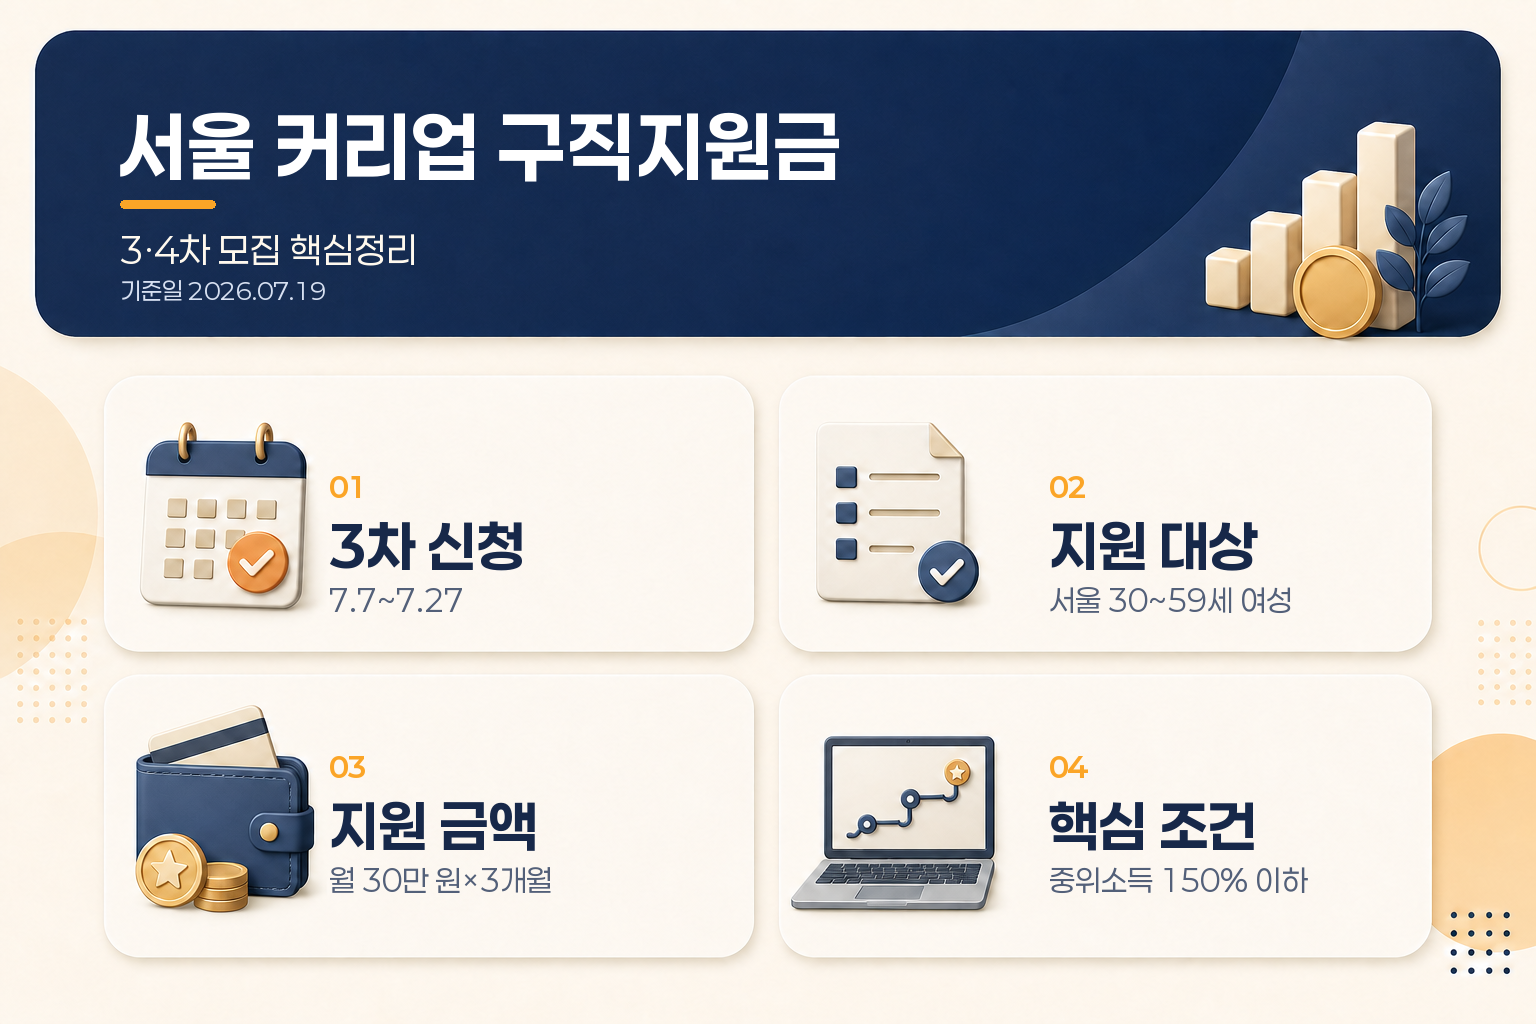
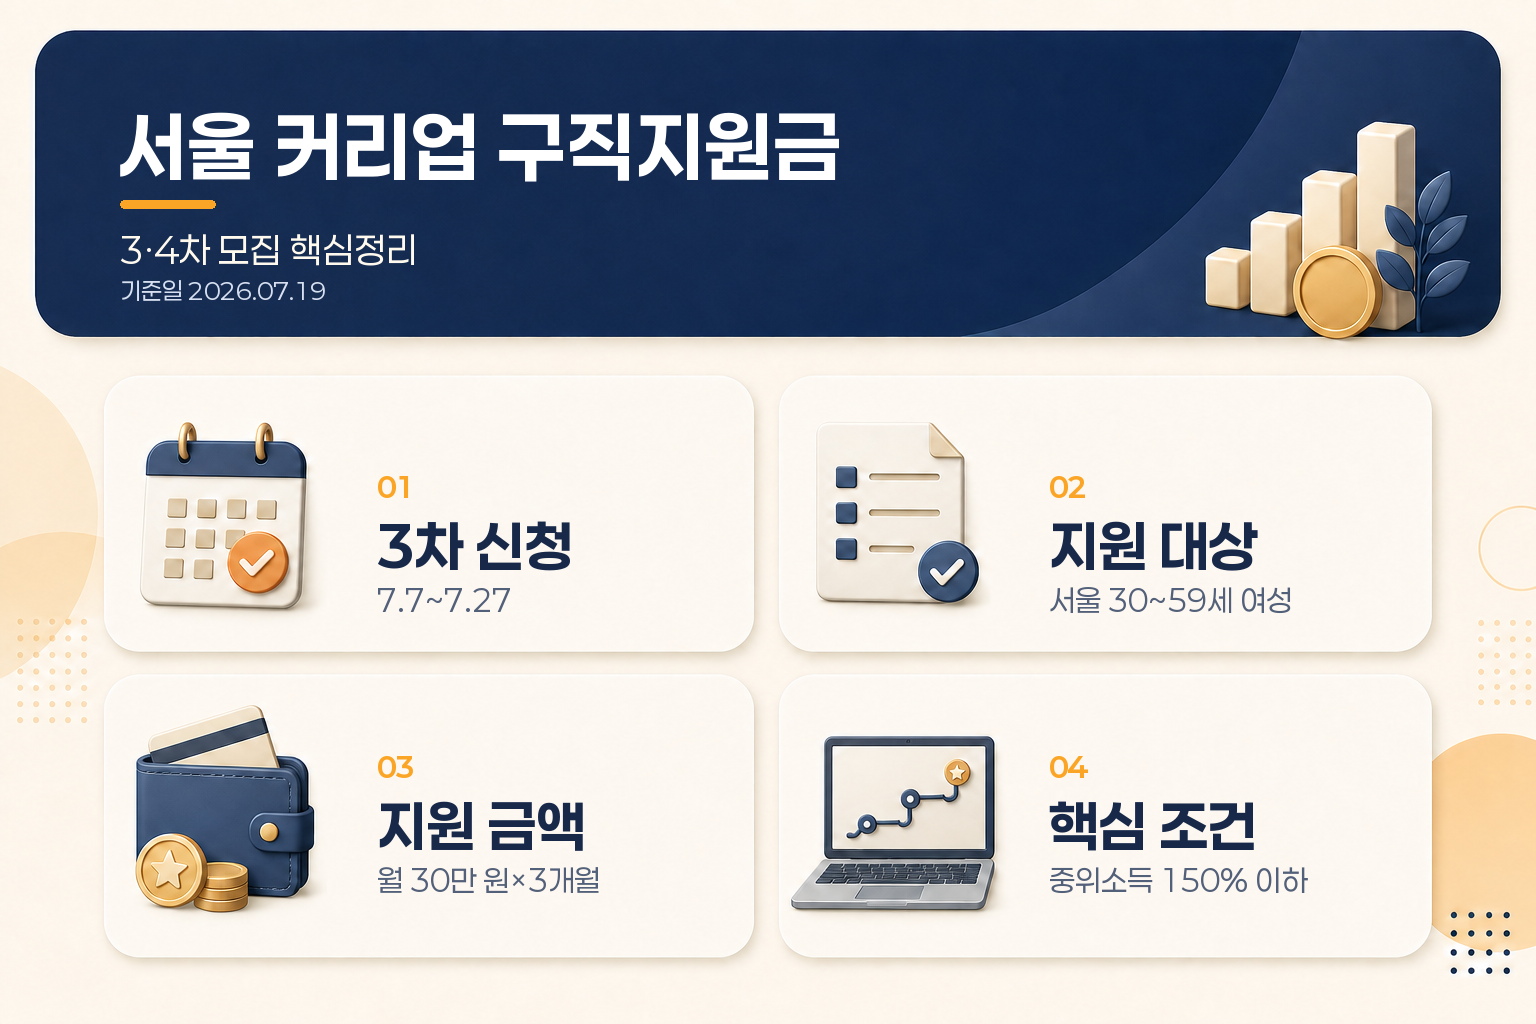
Update EV subsidy link and Career Up infographic

Changed region(s): [[0.2188, 0.7188, 0.4062, 0.875], [0.2188, 0.4688, 0.375, 0.5938]]

diff --git a/articles/youth-first-ev-subsidy-20260718.html b/articles/youth-first-ev-subsidy-20260718.html
@@ -89,6 +89,7 @@
 <p style="margin:12px 0;line-height:1.8;">전기차 보조금은 구매자가 정부 사이트에서 모든 절차를 직접 처리하는 방식이라기보다, 차량 계약과 함께 제조사·수입사 또는 판매점이 신청을 대행하는 흐름이 일반적입니다.</p>
 <br>
 <h3 style="font-size:18px;line-height:1.5;">기본 신청 흐름</h3>
+<p style="margin:12px 0;line-height:1.8;"><a href="https://www.ev.or.kr/nportal/buySupprt/initPsLocalCarPirceAction.do" target="_blank" rel="noopener noreferrer">공식 조회 링크: 무공해차 통합누리집 차종·지역별 보조금 조회</a></p>
 <ol style="margin:12px 0 12px 22px;padding:0;line-height:1.8;">
 <li style="margin:4px 0;">무공해차 통합누리집에서 보조금 대상 차종과 거주 지역 금액을 확인합니다.</li>
 <li style="margin:4px 0;">제조사·수입사 또는 판매점에서 차량 구매계약을 체결합니다.</li>
@@ -266,6 +267,8 @@
 
 기본 신청 흐름
 
+공식 조회 링크: 무공해차 통합누리집 차종·지역별 보조금 조회 (https://www.ev.or.kr/nportal/buySupprt/initPsLocalCarPirceAction.do)
+
 1. 무공해차 통합누리집에서 보조금 대상 차종과 거주 지역 금액을 확인합니다.
 2. 제조사·수입사 또는 판매점에서 차량 구매계약을 체결합니다.
 3. 구매지원 신청서와 증빙서류를 준비해 판매점에 제출합니다.
@@ -420,7 +423,7 @@
         if (target === 'copy-body-html') {
           const bodyClone = document.querySelector('#naver-body-html').cloneNode(true);
           bodyClone.querySelectorAll('img').forEach((img) => img.setAttribute('src', img.src));
-          await copyHtml(bodyClone.innerHTML, "청년 생애 최초 전기차 보조금, 20% 추가지원 조건·신청방법 총정리\n\n전기차를 첫 차로 구매하려는 청년이라면 2026년 보조금에서 국비 지원액의 20%를 추가로 받을 수 있는 조건을 확인할 수 있습니다.\n\n다만 이 20%는 차량 가격의 20%가 아닙니다. 해당 차종에 책정된 국비 보조금의 20%를 더하는 방식이며, 지방비는 거주 지역·차종·예산에 따라 별도로 달라집니다.\n\n이 글은 2026년 7월 18일 기준으로 만 19~34세 청년, 생애 첫 자동차, 차량 가격 기준, 지자체 신청 순서와 생애최초 증빙서류를 한 번에 정리한 안내입니다.\n\n먼저 핵심 조건부터 정리하면\n\n| 확인할 항목 | 2026년 기준 핵심 내용 |\n\n| 청년 연령 | 만 19세 이상 34세 이하 |\n| 구매 조건 | 전기차를 생애 첫 자동차로 구매 |\n| 청년 추가지원 | 해당 차량 국비 보조금의 20% |\n| 국비 상한 | 중·대형 승용 최대 580만 원, 소형 승용 최대 530만 원 범위에서 차등 |\n| 차량 가격 | 5,300만 원 미만 전액, 5,300만~8,500만 원 미만 50%, 8,500만 원 이상 미지원 |\n| 지방비 | 거주 지역·차종·예산·접수순서에 따라 별도 확인 |\n| 신청 방식 | 차량 계약 후 제조사·수입사 또는 판매점이 지자체에 대행 신청 가능 |\n\n핵심은 “청년이면 20%를 받는다”가 아니라 만 19~34세이면서, 전기차가 생애 첫 자동차인 경우 국비에 20%가 붙는다는 구조입니다.\n\n청년 생애 최초 전기차 보조금은 어떤 제도인가요?\n\n별도의 현금성 청년지원금을 따로 신청하는 방식이라기보다, 전기자동차 구매보조금 안에 있는 구매자 특성별 추가지원에 가깝습니다.\n\n청년 기준은 「청년기본법」에 따른 만 19세 이상 34세 이하입니다. 따라서 다른 청년정책에서 만 39세까지를 대상으로 하더라도, 이 중앙정부 전기차 추가지원 기준은 만 34세까지로 보는 것이 기본입니다.\n\n또 하나 중요한 표현은 “첫 전기차”가 아니라 생애 첫 자동차입니다. 과거에 자동차를 구매·등록한 이력이 있는지 확인하는 서류가 필요할 수 있으므로, 단순히 이전에 전기차를 산 적이 없다는 이유만으로 신청 가능하다고 판단하면 안 됩니다.\n\n현재 확인한 중앙정부 기준에는 청년 추가지원에 별도 소득요건이 제시되어 있지 않습니다. 다만 지자체는 거주기간, 접수기간, 우선순위, 제출서류 등 별도 조건을 공고할 수 있습니다.\n\n20% 추가지원금은 어떻게 계산하나요?\n\n계산식은 간단합니다.\n\n청년 추가지원금 = 해당 차종 국비 기본 보조금 × 20%\n\n예를 들어 차종별 국비 기본 보조금이 500만 원으로 책정되어 있다면 다음처럼 계산합니다.\n\n| 구분 | 금액 예시 |\n\n| 국비 기본 보조금 | 500만 원 |\n| 청년 생애최초 추가분 | 100만 원 |\n| 청년 조건 적용 후 국비 부분 | 600만 원 |\n| 지방비 | 거주 지자체와 차종별로 별도 계산 |\n\n이 예시는 계산 구조를 보여주기 위한 것입니다. 실제 국비 기본액은 차종의 연비·주행거리·배터리·가격인하 여부 등에 따라 달라지고, 국비 상한액을 그대로 받는다는 뜻도 아닙니다.\n\n중·대형 승용차의 국비 상한이 580만 원이라고 해도 모든 차종에 580만 원이 적용되는 것은 아닙니다. 해당 차량의 실제 국비 보조금이 580만 원으로 확정된 경우에만 단순 계산상 청년 추가분이 116만 원이 됩니다.\n\n차상위 이하 계층, 다자녀 등 다른 구매자 특성별 추가지원은 중복 가능하다고 안내되어 있습니다. 다만 정액 지원은 비율 추가지원 계산 후 마지막에 더하는 구조이므로, 개인별 조합은 차종과 지자체 공고를 함께 확인해야 합니다.\n\n차량 가격 기준도 함께 봐야 합니다\n\n승용 전기차는 차량 기본가격에 따라 보조금 지원 비율이 달라집니다.\n\n| 차량 기본가격 | 보조금 기준 |\n\n| 5,300만 원 미만 | 보조금 전액 기준 |\n| 5,300만 원 이상~8,500만 원 미만 | 보조금의 50% 기준 |\n| 8,500만 원 이상 | 보조금 미지원 |\n\n청년 추가지원은 기본 보조금이 산정된 뒤 적용되는 구조이므로, 차량 가격 기준에서 보조금이 줄거나 제외되면 청년 추가분도 함께 달라집니다.\n\n따라서 차량을 고를 때는 광고에 표시된 “청년 추가 20%”만 따로 보기보다 다음 순서로 확인하는 편이 안전합니다.\n\n1. 차량 기본가격이 어느 구간인지 확인합니다.\n2. 무공해차 통합누리집에서 해당 차종의 국비 보조금을 확인합니다.\n3. 거주 지자체의 차종별 지방비를 확인합니다.\n4. 국비 기본액에 20%를 적용해 청년 추가분을 계산합니다.\n5. 지역 예산과 접수 가능 여부를 확인한 뒤 계약 일정을 잡습니다.\n\n국비와 지방비는 어떻게 나뉘나요?\n\n전기차 보조금은 국비와 지방비가 합쳐져 차량 구매 과정에 반영되지만, 두 금액의 기준은 다릅니다.\n\n| 구분 | 확인 기준 |\n\n| 국비 | 차종별 성능·가격·제조사 평가 등을 반영한 전국 기준 |\n| 지방비 | 구매자의 거주 지역, 차종별 배분, 지자체 예산과 접수 조건 |\n| 청년 추가분 | 해당 차량 국비 보조금의 20% |\n| 접수 상태 | 공고 물량, 잔여 예산, 출고·등록 시점, 지자체 선정 방식 |\n\n지자체는 차종별 국비 산정 수준에 비례해 지방비를 차등 산정합니다. 하지만 같은 차량이라도 어느 지역에서 구매하느냐에 따라 전체 보조금이 달라질 수 있습니다.\n\n2026년 지침상 지자체는 보급 물량을 나누어 최소 2회 이상 공고할 수 있고, 개인 구매자에게 일정 기간의 거주요건을 둘 수 있습니다. 거주기간 요건은 지침상 3개월 이내로 설정하도록 안내되어 있지만, 실제 신청 가능 여부는 해당 지역 공고문을 기준으로 봐야 합니다.\n\n신청은 보통 어떤 순서로 진행되나요?\n\n전기차 보조금은 구매자가 정부 사이트에서 모든 절차를 직접 처리하는 방식이라기보다, 차량 계약과 함께 제조사·수입사 또는 판매점이 신청을 대행하는 흐름이 일반적입니다.\n\n기본 신청 흐름\n\n1. 무공해차 통합누리집에서 보조금 대상 차종과 거주 지역 금액을 확인합니다.\n2. 제조사·수입사 또는 판매점에서 차량 구매계약을 체결합니다.\n3. 구매지원 신청서와 증빙서류를 준비해 판매점에 제출합니다.\n4. 제조사·수입사 또는 판매점이 관할 지자체에 구매지원 신청을 대행합니다.\n5. 지자체가 자격과 예산을 검토해 지원 대상자를 선정합니다.\n6. 대상자 확정 후 차량을 출고·등록합니다.\n7. 등록 후 정해진 기간 안에 집행 증빙을 제출합니다.\n\n지자체의 대상자 선정 방식은 출고·등록순, 추첨, 구매지원 신청서 접수순 중에서 지역별로 달라질 수 있습니다. 보조금 대상자로 선정되더라도 차량 출고가 늦어지면 선정이 취소되거나 대기자로 바뀔 수 있으므로, 계약 전 출고 예정일도 함께 확인해야 합니다.\n\n2026년 7월 이후에는 전기차 화재안심보험 가입요건이 적용되는 차량만 보조금 대상이 되는 제도 변경도 안내되어 있습니다. 차량별 적용 여부는 제조사 설명과 무공해차 통합누리집의 대상 차종 정보를 함께 확인하는 것이 좋습니다.\n\n생애최초 증빙서류는 무엇을 준비하나요?\n\n공통서류와 추가지원 증빙서류를 나누어 생각하면 편합니다.\n\n| 구분 | 준비 가능성이 높은 서류 | 확인 포인트 |\n\n| 공통 | 전기자동차 구매지원신청서, 차량구매계약서 | 판매점이 양식을 안내하는 경우가 많음 |\n| 거주 확인 | 주민등록초본 | 이전 주소 변동사항과 지자체 거주기간 확인 |\n| 생애최초 | 지방세 세목별 미과세증명서 | 차량 취득세·자동차세·등록세 관련 항목과 발급 범위 확인 |\n| 추가 대상 | 차상위·기초생활수급자 증명서, 가족관계증명서 등 | 해당되는 경우에만 지자체 공고에 따라 제출 |\n\n서울시 FAQ는 생애 최초 차량 구매자 추가보조금 신청에 출생연도부터 현재까지의 지방세 세목별 미과세증명서와 주민등록초본을 안내하고 있습니다. 다만 이 서류 구성이 전국 모든 지자체에서 동일하다고 단정하면 안 됩니다.\n\n특히 지방세 미과세증명서는 발급 지역과 기간을 잘못 선택하면 자동차 보유 이력 확인이 충분하지 않을 수 있습니다. 발급 전 해당 지자체 공고 또는 판매점이 안내하는 세목·기간·전국 단위 발급 여부를 확인하세요.\n\n보조금 신청 타이밍에서 놓치기 쉬운 부분\n\n보조금은 계약했다고 바로 확정되는 금액이 아닙니다. 다음 세 가지 시점을 구분해야 합니다.\n\n| 시점 | 의미 |\n\n| 계약일 | 차량 구매계약을 체결한 날 |\n| 지원 대상자 선정일 | 지자체가 보조금 대상자로 확정한 날 |\n| 출고·등록일 | 실제 차량을 출고하고 등록한 날 |\n\n지자체별로 접수순이나 출고·등록순을 적용할 수 있고, 예산이 소진되면 접수가 마감될 수 있습니다. 또 보조금 대상자 선정 후에도 일정 기간 안에 차량이 출고되지 않으면 대상자 선정이 취소될 수 있습니다.\n\n그러므로 “차량을 먼저 계약하면 보조금을 확보할 수 있다”거나 “20% 추가분은 누구나 나중에 신청하면 된다”고 단정하기 어렵습니다. 계약 전에는 반드시 대상 차종, 지역 예산, 접수 상태, 선정 방식, 출고 예정일을 함께 확인해야 합니다.\n\n의무운행기간과 보조금 환수도 확인하세요\n\n전기차 보조금을 받은 뒤 짧은 기간 안에 매도하거나 등록을 말소하면 보조금 일부가 회수될 수 있습니다.\n\n찾기쉬운 생활법령정보는 최초 등록일부터 법정 의무운행기간이 지나지 않은 상태에서 등록말소를 신청하면 사용기간별 회수기준에 따라 보조금을 회수한다고 안내합니다. 승용차를 2년 이내 판매하는 경우 별도 승인 절차를 두는 지자체도 있습니다.\n\n사고나 천재지변처럼 불가피한 말소는 예외 기준이 적용될 수 있지만, 일반적인 조기 매도·폐차와는 구분해야 합니다. 차량을 오래 보유할 계획인지, 중고 판매나 이전 가능성이 있는지에 따라 확인해야 할 조건이 달라질 수 있습니다.\n\n자주 묻는 질문\n\n만 35세부터 39세인 청년도 청년 추가지원 대상인가요?\n\n2026년 중앙정부 전기차 구매보조금의 청년 추가지원 기준은 만 19세 이상 34세 이하입니다. 다른 청년정책의 연령 기준과 혼동하지 않는 것이 좋습니다.\n\n차량 가격의 20%를 지원하나요?\n\n아닙니다. 차량 가격이 아니라 해당 차종에 책정된 국비 보조금의 20%입니다.\n\n국비 20%에 지방비도 같이 20% 붙나요?\n\n청년 추가분은 국비 지원액을 기준으로 계산됩니다. 지방비는 거주 지역과 차종별 공고에 따라 별도로 산정되므로, 전체 보조금에 단순히 20%를 곱하면 안 됩니다.\n\n이전에 오토바이나 가족 차량을 보유한 경우는 어떻게 되나요?\n\n생애최초 인정 범위와 확인 방식은 자동차 종류·등록 이력·지자체 공고에 따라 확인해야 합니다. “내 명의의 승용차가 없었다”는 사실만으로 모든 경우를 동일하게 판단하지 말고, 과거 등록 이력을 확인할 서류와 지역 기준을 판매점·지자체에 확인하는 것이 안전합니다.\n\n보조금 신청은 구매자가 직접 하나요?\n\n구매자가 계약서와 증빙서류를 준비하고, 제조사·수입사 또는 판매점이 지자체 신청을 대행할 수 있습니다. 다만 제출서류와 최종 책임 기준은 지자체 공고에 따라 달라질 수 있습니다.\n\n전기차를 산 뒤 바로 팔아도 되나요?\n\n의무운행기간 안에 판매·폐차·등록말소를 하면 보조금 환수나 승인 절차가 발생할 수 있습니다. 최초 등록일과 사용기간별 회수기준을 확인해야 합니다.\n\n신청 전 체크리스트\n\n- 만 19세 이상 34세 이하인지 확인했습니다.\n- 구매하려는 전기차가 생애 첫 자동차에 해당하는지 확인했습니다.\n- 차량 기본가격이 보조금 가격 구간에 들어오는지 확인했습니다.\n- 무공해차 통합누리집에서 차종별 국비 보조금을 확인했습니다.\n- 거주 지자체의 지방비와 잔여 예산을 확인했습니다.\n- 지자체의 거주기간과 접수·선정 방식을 확인했습니다.\n- 지방세 세목별 미과세증명서와 주민등록초본 등 생애최초 증빙을 확인했습니다.\n- 차량 출고 예정일이 대상자 선정 후 기한 안에 들어오는지 확인했습니다.\n- 2026년 7월 이후 화재안심보험 요건에 해당하는 차량인지 확인했습니다.\n- 조기 매도·폐차 시 보조금 환수 기준을 확인했습니다.\n\n마무리 정리\n\n청년 생애 최초 전기차 보조금의 핵심은 만 19~34세 청년이 생애 첫 자동차로 전기차를 구매하면 해당 차종 국비 보조금의 20%를 추가로 받을 수 있다는 점입니다.\n\n하지만 실제 구매 금액은 청년 추가분 하나만으로 결정되지 않습니다. 차량 가격 구간, 차종별 국비, 거주 지역의 지방비, 잔여 예산, 생애최초 증빙, 출고일과 의무운행기간을 함께 확인해야 합니다.\n\n따라서 계약 전에는 무공해차 통합누리집에서 차종·지역별 금액을 조회하고, 판매점에는 청년 생애최초 추가지원과 지방세 증빙서류를 별도로 확인하는 순서가 적절합니다.\n\n자료 기준일: 2026년 7월 18일  \n주요 출처: 기후에너지환경부 2026년 보조금 지침·카드뉴스, 찾기쉬운 생활법령정보, 무공해차 통합누리집, 서울특별시 전기차 보조금 FAQ  \n안내: 이 글은 2026년 7월 18일 기준 공개된 정부·지자체 안내를 바탕으로 정리한 일반 정보입니다. 차량별 보조금, 지자체 예산, 거주기간, 제출서류와 접수 방식은 신청 시점의 공고에 따라 달라질 수 있으므로 계약 전 무공해차 통합누리집과 관할 지자체 공고를 다시 확인하세요.");
+          await copyHtml(bodyClone.innerHTML, "청년 생애 최초 전기차 보조금, 20% 추가지원 조건·신청방법 총정리\n\n전기차를 첫 차로 구매하려는 청년이라면 2026년 보조금에서 국비 지원액의 20%를 추가로 받을 수 있는 조건을 확인할 수 있습니다.\n\n다만 이 20%는 차량 가격의 20%가 아닙니다. 해당 차종에 책정된 국비 보조금의 20%를 더하는 방식이며, 지방비는 거주 지역·차종·예산에 따라 별도로 달라집니다.\n\n이 글은 2026년 7월 18일 기준으로 만 19~34세 청년, 생애 첫 자동차, 차량 가격 기준, 지자체 신청 순서와 생애최초 증빙서류를 한 번에 정리한 안내입니다.\n\n먼저 핵심 조건부터 정리하면\n\n| 확인할 항목 | 2026년 기준 핵심 내용 |\n\n| 청년 연령 | 만 19세 이상 34세 이하 |\n| 구매 조건 | 전기차를 생애 첫 자동차로 구매 |\n| 청년 추가지원 | 해당 차량 국비 보조금의 20% |\n| 국비 상한 | 중·대형 승용 최대 580만 원, 소형 승용 최대 530만 원 범위에서 차등 |\n| 차량 가격 | 5,300만 원 미만 전액, 5,300만~8,500만 원 미만 50%, 8,500만 원 이상 미지원 |\n| 지방비 | 거주 지역·차종·예산·접수순서에 따라 별도 확인 |\n| 신청 방식 | 차량 계약 후 제조사·수입사 또는 판매점이 지자체에 대행 신청 가능 |\n\n핵심은 “청년이면 20%를 받는다”가 아니라 만 19~34세이면서, 전기차가 생애 첫 자동차인 경우 국비에 20%가 붙는다는 구조입니다.\n\n청년 생애 최초 전기차 보조금은 어떤 제도인가요?\n\n별도의 현금성 청년지원금을 따로 신청하는 방식이라기보다, 전기자동차 구매보조금 안에 있는 구매자 특성별 추가지원에 가깝습니다.\n\n청년 기준은 「청년기본법」에 따른 만 19세 이상 34세 이하입니다. 따라서 다른 청년정책에서 만 39세까지를 대상으로 하더라도, 이 중앙정부 전기차 추가지원 기준은 만 34세까지로 보는 것이 기본입니다.\n\n또 하나 중요한 표현은 “첫 전기차”가 아니라 생애 첫 자동차입니다. 과거에 자동차를 구매·등록한 이력이 있는지 확인하는 서류가 필요할 수 있으므로, 단순히 이전에 전기차를 산 적이 없다는 이유만으로 신청 가능하다고 판단하면 안 됩니다.\n\n현재 확인한 중앙정부 기준에는 청년 추가지원에 별도 소득요건이 제시되어 있지 않습니다. 다만 지자체는 거주기간, 접수기간, 우선순위, 제출서류 등 별도 조건을 공고할 수 있습니다.\n\n20% 추가지원금은 어떻게 계산하나요?\n\n계산식은 간단합니다.\n\n청년 추가지원금 = 해당 차종 국비 기본 보조금 × 20%\n\n예를 들어 차종별 국비 기본 보조금이 500만 원으로 책정되어 있다면 다음처럼 계산합니다.\n\n| 구분 | 금액 예시 |\n\n| 국비 기본 보조금 | 500만 원 |\n| 청년 생애최초 추가분 | 100만 원 |\n| 청년 조건 적용 후 국비 부분 | 600만 원 |\n| 지방비 | 거주 지자체와 차종별로 별도 계산 |\n\n이 예시는 계산 구조를 보여주기 위한 것입니다. 실제 국비 기본액은 차종의 연비·주행거리·배터리·가격인하 여부 등에 따라 달라지고, 국비 상한액을 그대로 받는다는 뜻도 아닙니다.\n\n중·대형 승용차의 국비 상한이 580만 원이라고 해도 모든 차종에 580만 원이 적용되는 것은 아닙니다. 해당 차량의 실제 국비 보조금이 580만 원으로 확정된 경우에만 단순 계산상 청년 추가분이 116만 원이 됩니다.\n\n차상위 이하 계층, 다자녀 등 다른 구매자 특성별 추가지원은 중복 가능하다고 안내되어 있습니다. 다만 정액 지원은 비율 추가지원 계산 후 마지막에 더하는 구조이므로, 개인별 조합은 차종과 지자체 공고를 함께 확인해야 합니다.\n\n차량 가격 기준도 함께 봐야 합니다\n\n승용 전기차는 차량 기본가격에 따라 보조금 지원 비율이 달라집니다.\n\n| 차량 기본가격 | 보조금 기준 |\n\n| 5,300만 원 미만 | 보조금 전액 기준 |\n| 5,300만 원 이상~8,500만 원 미만 | 보조금의 50% 기준 |\n| 8,500만 원 이상 | 보조금 미지원 |\n\n청년 추가지원은 기본 보조금이 산정된 뒤 적용되는 구조이므로, 차량 가격 기준에서 보조금이 줄거나 제외되면 청년 추가분도 함께 달라집니다.\n\n따라서 차량을 고를 때는 광고에 표시된 “청년 추가 20%”만 따로 보기보다 다음 순서로 확인하는 편이 안전합니다.\n\n1. 차량 기본가격이 어느 구간인지 확인합니다.\n2. 무공해차 통합누리집에서 해당 차종의 국비 보조금을 확인합니다.\n3. 거주 지자체의 차종별 지방비를 확인합니다.\n4. 국비 기본액에 20%를 적용해 청년 추가분을 계산합니다.\n5. 지역 예산과 접수 가능 여부를 확인한 뒤 계약 일정을 잡습니다.\n\n국비와 지방비는 어떻게 나뉘나요?\n\n전기차 보조금은 국비와 지방비가 합쳐져 차량 구매 과정에 반영되지만, 두 금액의 기준은 다릅니다.\n\n| 구분 | 확인 기준 |\n\n| 국비 | 차종별 성능·가격·제조사 평가 등을 반영한 전국 기준 |\n| 지방비 | 구매자의 거주 지역, 차종별 배분, 지자체 예산과 접수 조건 |\n| 청년 추가분 | 해당 차량 국비 보조금의 20% |\n| 접수 상태 | 공고 물량, 잔여 예산, 출고·등록 시점, 지자체 선정 방식 |\n\n지자체는 차종별 국비 산정 수준에 비례해 지방비를 차등 산정합니다. 하지만 같은 차량이라도 어느 지역에서 구매하느냐에 따라 전체 보조금이 달라질 수 있습니다.\n\n2026년 지침상 지자체는 보급 물량을 나누어 최소 2회 이상 공고할 수 있고, 개인 구매자에게 일정 기간의 거주요건을 둘 수 있습니다. 거주기간 요건은 지침상 3개월 이내로 설정하도록 안내되어 있지만, 실제 신청 가능 여부는 해당 지역 공고문을 기준으로 봐야 합니다.\n\n신청은 보통 어떤 순서로 진행되나요?\n\n전기차 보조금은 구매자가 정부 사이트에서 모든 절차를 직접 처리하는 방식이라기보다, 차량 계약과 함께 제조사·수입사 또는 판매점이 신청을 대행하는 흐름이 일반적입니다.\n\n기본 신청 흐름\n\n공식 조회 링크: 무공해차 통합누리집 차종·지역별 보조금 조회 (https://www.ev.or.kr/nportal/buySupprt/initPsLocalCarPirceAction.do)\n\n1. 무공해차 통합누리집에서 보조금 대상 차종과 거주 지역 금액을 확인합니다.\n2. 제조사·수입사 또는 판매점에서 차량 구매계약을 체결합니다.\n3. 구매지원 신청서와 증빙서류를 준비해 판매점에 제출합니다.\n4. 제조사·수입사 또는 판매점이 관할 지자체에 구매지원 신청을 대행합니다.\n5. 지자체가 자격과 예산을 검토해 지원 대상자를 선정합니다.\n6. 대상자 확정 후 차량을 출고·등록합니다.\n7. 등록 후 정해진 기간 안에 집행 증빙을 제출합니다.\n\n지자체의 대상자 선정 방식은 출고·등록순, 추첨, 구매지원 신청서 접수순 중에서 지역별로 달라질 수 있습니다. 보조금 대상자로 선정되더라도 차량 출고가 늦어지면 선정이 취소되거나 대기자로 바뀔 수 있으므로, 계약 전 출고 예정일도 함께 확인해야 합니다.\n\n2026년 7월 이후에는 전기차 화재안심보험 가입요건이 적용되는 차량만 보조금 대상이 되는 제도 변경도 안내되어 있습니다. 차량별 적용 여부는 제조사 설명과 무공해차 통합누리집의 대상 차종 정보를 함께 확인하는 것이 좋습니다.\n\n생애최초 증빙서류는 무엇을 준비하나요?\n\n공통서류와 추가지원 증빙서류를 나누어 생각하면 편합니다.\n\n| 구분 | 준비 가능성이 높은 서류 | 확인 포인트 |\n\n| 공통 | 전기자동차 구매지원신청서, 차량구매계약서 | 판매점이 양식을 안내하는 경우가 많음 |\n| 거주 확인 | 주민등록초본 | 이전 주소 변동사항과 지자체 거주기간 확인 |\n| 생애최초 | 지방세 세목별 미과세증명서 | 차량 취득세·자동차세·등록세 관련 항목과 발급 범위 확인 |\n| 추가 대상 | 차상위·기초생활수급자 증명서, 가족관계증명서 등 | 해당되는 경우에만 지자체 공고에 따라 제출 |\n\n서울시 FAQ는 생애 최초 차량 구매자 추가보조금 신청에 출생연도부터 현재까지의 지방세 세목별 미과세증명서와 주민등록초본을 안내하고 있습니다. 다만 이 서류 구성이 전국 모든 지자체에서 동일하다고 단정하면 안 됩니다.\n\n특히 지방세 미과세증명서는 발급 지역과 기간을 잘못 선택하면 자동차 보유 이력 확인이 충분하지 않을 수 있습니다. 발급 전 해당 지자체 공고 또는 판매점이 안내하는 세목·기간·전국 단위 발급 여부를 확인하세요.\n\n보조금 신청 타이밍에서 놓치기 쉬운 부분\n\n보조금은 계약했다고 바로 확정되는 금액이 아닙니다. 다음 세 가지 시점을 구분해야 합니다.\n\n| 시점 | 의미 |\n\n| 계약일 | 차량 구매계약을 체결한 날 |\n| 지원 대상자 선정일 | 지자체가 보조금 대상자로 확정한 날 |\n| 출고·등록일 | 실제 차량을 출고하고 등록한 날 |\n\n지자체별로 접수순이나 출고·등록순을 적용할 수 있고, 예산이 소진되면 접수가 마감될 수 있습니다. 또 보조금 대상자 선정 후에도 일정 기간 안에 차량이 출고되지 않으면 대상자 선정이 취소될 수 있습니다.\n\n그러므로 “차량을 먼저 계약하면 보조금을 확보할 수 있다”거나 “20% 추가분은 누구나 나중에 신청하면 된다”고 단정하기 어렵습니다. 계약 전에는 반드시 대상 차종, 지역 예산, 접수 상태, 선정 방식, 출고 예정일을 함께 확인해야 합니다.\n\n의무운행기간과 보조금 환수도 확인하세요\n\n전기차 보조금을 받은 뒤 짧은 기간 안에 매도하거나 등록을 말소하면 보조금 일부가 회수될 수 있습니다.\n\n찾기쉬운 생활법령정보는 최초 등록일부터 법정 의무운행기간이 지나지 않은 상태에서 등록말소를 신청하면 사용기간별 회수기준에 따라 보조금을 회수한다고 안내합니다. 승용차를 2년 이내 판매하는 경우 별도 승인 절차를 두는 지자체도 있습니다.\n\n사고나 천재지변처럼 불가피한 말소는 예외 기준이 적용될 수 있지만, 일반적인 조기 매도·폐차와는 구분해야 합니다. 차량을 오래 보유할 계획인지, 중고 판매나 이전 가능성이 있는지에 따라 확인해야 할 조건이 달라질 수 있습니다.\n\n자주 묻는 질문\n\n만 35세부터 39세인 청년도 청년 추가지원 대상인가요?\n\n2026년 중앙정부 전기차 구매보조금의 청년 추가지원 기준은 만 19세 이상 34세 이하입니다. 다른 청년정책의 연령 기준과 혼동하지 않는 것이 좋습니다.\n\n차량 가격의 20%를 지원하나요?\n\n아닙니다. 차량 가격이 아니라 해당 차종에 책정된 국비 보조금의 20%입니다.\n\n국비 20%에 지방비도 같이 20% 붙나요?\n\n청년 추가분은 국비 지원액을 기준으로 계산됩니다. 지방비는 거주 지역과 차종별 공고에 따라 별도로 산정되므로, 전체 보조금에 단순히 20%를 곱하면 안 됩니다.\n\n이전에 오토바이나 가족 차량을 보유한 경우는 어떻게 되나요?\n\n생애최초 인정 범위와 확인 방식은 자동차 종류·등록 이력·지자체 공고에 따라 확인해야 합니다. “내 명의의 승용차가 없었다”는 사실만으로 모든 경우를 동일하게 판단하지 말고, 과거 등록 이력을 확인할 서류와 지역 기준을 판매점·지자체에 확인하는 것이 안전합니다.\n\n보조금 신청은 구매자가 직접 하나요?\n\n구매자가 계약서와 증빙서류를 준비하고, 제조사·수입사 또는 판매점이 지자체 신청을 대행할 수 있습니다. 다만 제출서류와 최종 책임 기준은 지자체 공고에 따라 달라질 수 있습니다.\n\n전기차를 산 뒤 바로 팔아도 되나요?\n\n의무운행기간 안에 판매·폐차·등록말소를 하면 보조금 환수나 승인 절차가 발생할 수 있습니다. 최초 등록일과 사용기간별 회수기준을 확인해야 합니다.\n\n신청 전 체크리스트\n\n- 만 19세 이상 34세 이하인지 확인했습니다.\n- 구매하려는 전기차가 생애 첫 자동차에 해당하는지 확인했습니다.\n- 차량 기본가격이 보조금 가격 구간에 들어오는지 확인했습니다.\n- 무공해차 통합누리집에서 차종별 국비 보조금을 확인했습니다.\n- 거주 지자체의 지방비와 잔여 예산을 확인했습니다.\n- 지자체의 거주기간과 접수·선정 방식을 확인했습니다.\n- 지방세 세목별 미과세증명서와 주민등록초본 등 생애최초 증빙을 확인했습니다.\n- 차량 출고 예정일이 대상자 선정 후 기한 안에 들어오는지 확인했습니다.\n- 2026년 7월 이후 화재안심보험 요건에 해당하는 차량인지 확인했습니다.\n- 조기 매도·폐차 시 보조금 환수 기준을 확인했습니다.\n\n마무리 정리\n\n청년 생애 최초 전기차 보조금의 핵심은 만 19~34세 청년이 생애 첫 자동차로 전기차를 구매하면 해당 차종 국비 보조금의 20%를 추가로 받을 수 있다는 점입니다.\n\n하지만 실제 구매 금액은 청년 추가분 하나만으로 결정되지 않습니다. 차량 가격 구간, 차종별 국비, 거주 지역의 지방비, 잔여 예산, 생애최초 증빙, 출고일과 의무운행기간을 함께 확인해야 합니다.\n\n따라서 계약 전에는 무공해차 통합누리집에서 차종·지역별 금액을 조회하고, 판매점에는 청년 생애최초 추가지원과 지방세 증빙서류를 별도로 확인하는 순서가 적절합니다.\n\n자료 기준일: 2026년 7월 18일  \n주요 출처: 기후에너지환경부 2026년 보조금 지침·카드뉴스, 찾기쉬운 생활법령정보, 무공해차 통합누리집, 서울특별시 전기차 보조금 FAQ  \n안내: 이 글은 2026년 7월 18일 기준 공개된 정부·지자체 안내를 바탕으로 정리한 일반 정보입니다. 차량별 보조금, 지자체 예산, 거주기간, 제출서류와 접수 방식은 신청 시점의 공고에 따라 달라질 수 있으므로 계약 전 무공해차 통합누리집과 관할 지자체 공고를 다시 확인하세요.");
         } else if (target === 'copy-body-plain') {
           await navigator.clipboard.writeText(document.querySelector('#copy-body-plain textarea').value);
         } else {